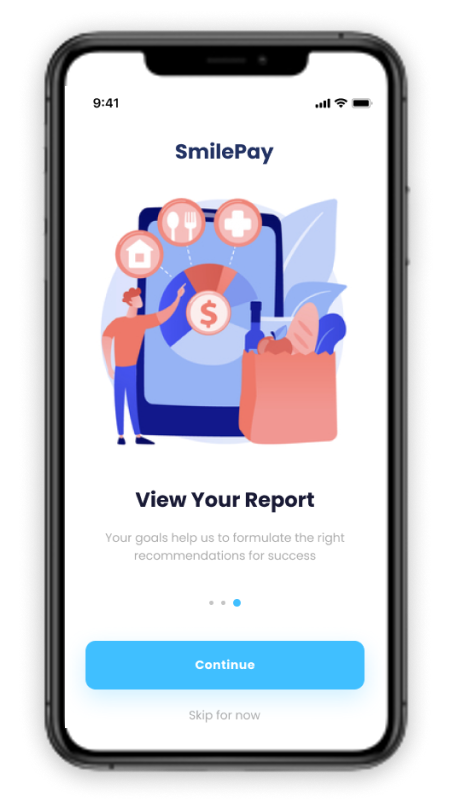
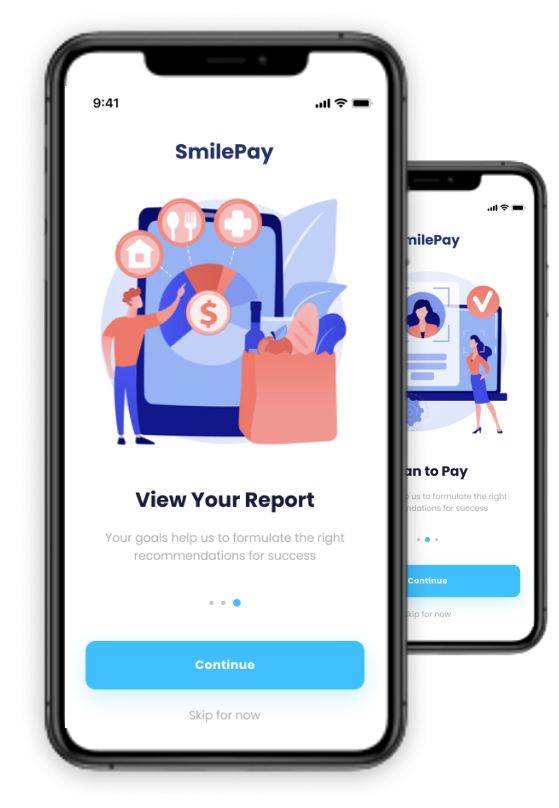
update image

diff --git a/index.html b/index.html
@@ -119,17 +119,14 @@
               </a>
             </div>
           </div>
-          <div class="col-12 col-md-6 no-sm">
-            <img src="img/phones/second.png" class="back-image back-image-first-animation" width="250" alt="">
-            <img src="img/phones/first.png" class="front-image front-image-first-animation" width="400" alt="">
+          <div class="col-12 col-sm-10 col-lg-6 order-last text-center"">
+            <div class="no-sm"> 
+              <img src="img/phones/first.png" class="front-image img-fluid front-image-first-animation" alt="">
+            </div>
+            <div class="no-md"> 
+              <img src="img/phones/first.png" class="front-image img-fluid front-image-first-animation" alt="">
+            </div>
           </div>
-        </div>
-        <div class="row justify-content-center">
-          <div class="col-8 col-md-5 no-md">
-            <img src="img/phones/first.png" class="front-image front-image-first-animation" width="200" alt="">
-            <img src="img/phones/second.png" class="back-image back-image-first-animation" width="120" alt="">
-          </div>
-        </div>
         </div>
       </div>
      </section>

diff --git a/css/style.css b/css/style.css
@@ -329,7 +329,7 @@ Landing
   .front-image {
     z-index: 205 !important;
     position: relative;
-    transform: translateX(25%);
+    transform: translateY(25%);
     left: 0%;
     opacity: 0.5;
   }
